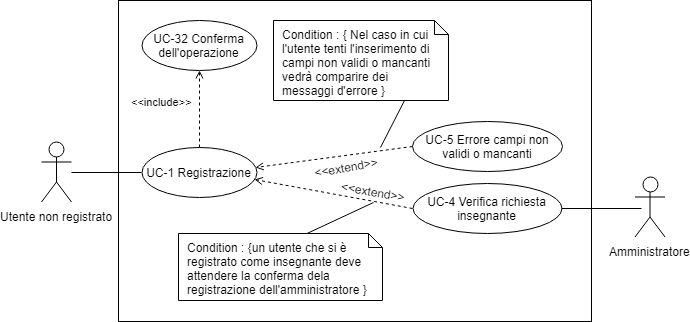
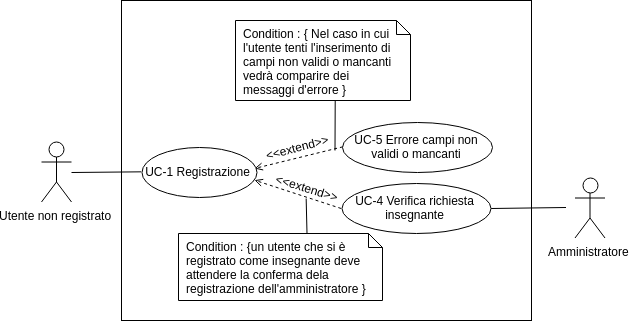
Analisi dei requisiti

Changed region(s): [[0.0, 0.0, 1.0, 1.0], [0.0603, 0.4348, 0.1206, 0.6211], [0.2714, 0.2174, 0.3016, 0.2484]]

diff --git a/docs/Analisi_dei_requisiti/casi1.tex b/docs/Analisi_dei_requisiti/casi1.tex
@@ -42,7 +42,8 @@ Ad ogni caso d'uso saranno associate le seguenti informazioni:
 		\item \textbf{Estensioni: }
 		\begin{itemize}
 			\item 5.a Nel caso in cui l'utente tenti l'inserimento di campi non validi vedrà comparire dei messaggi d'errore (UC-5).
-			\item 5.b un utente che si è registrato come insegnante deve attendere la conferma dela registrazione dell'amministratore (UC-4).
+			\item 5.b Un utente che si è registrato come insegnante deve attendere la conferma dela registrazione dell'amministratore (UC-4).
+			\item 5.c Un utente che invia la domanda di registrazione deve confermare o annullare l'operazione (UC-32).
 		\end{itemize}
 	\end{itemize}
 \subsubsection{UC-2 Autenticazione}
@@ -58,6 +59,7 @@ Ad ogni caso d'uso saranno associate le seguenti informazioni:
 				\item Estensioni:
 				\begin{itemize}
 					\item 2.a Nel caso in cui l'utente tenti l'inserimento di campi non validi vedrà comparire messaggi d'errore (UC-5).
+					\item 2.b Un utente che invia la domanda di identificazione deve confermare o annullare l'operazione (UC-32)
 				\end{itemize}
 		\end{itemize}
 		
@@ -79,7 +81,8 @@ Ad ogni caso d'uso saranno associate le seguenti informazioni:
 				\end{enumerate}
 				\item Estensioni:
 				\begin{itemize}
-					\item 2.a nel caso in cui l'utente tenti l'inserimento di campi non validi vedrà comparire messaggi d'errore (UC-5).
+					\item 2.a Nel caso in cui l'utente tenti l'inserimento di campi non validi vedrà comparire messaggi d'errore (UC-5).
+					\item 2.b Un utente che invia la domanda di modifica deve confermare o annullare l'operazione (UC-32).
 				\end{itemize}
 		\end{itemize}
 		
@@ -93,6 +96,10 @@ Ad ogni caso d'uso saranno associate le seguenti informazioni:
 					\item l'amministratore visualizza la lista degli utenti che richiedono il ruolo di insegnante;
 					\item l'amministratore acceta o rifiuta l'utente selezionato.
 				\end{enumerate}
+			\item Estensioni:
+			\begin{itemize}
+				\item 2.a L'amministratore che verifica la richiesta di insegnante deve confermare o annullare l'operazione (UC-32).
+			\end{itemize}
 		\end{itemize}
 
 \subsubsection{UC-5 Errore campi non validi o mancanti}
@@ -159,6 +166,10 @@ Ad ogni caso d'uso saranno associate le seguenti informazioni:
 		\item l'amministratore indica l'utente da eliminare;
 		\item l'amministratore conferma l'eliminazione dell'utente selezionato.
 	\end{enumerate}
+\item Estensioni:
+\begin{itemize}
+	\item 2.a L'amministratore deve confermare o annullare l'operazione di eliminazione utente (UC-32).
+\end{itemize}
 \end{itemize}
 
 	
@@ -179,6 +190,10 @@ Ad ogni caso d'uso saranno associate le seguenti informazioni:
 		\item L'insegnante modifica i campi che ritiene errati.
 		\item L'insegnante conferma la modifica.
 		\end{enumerate}
+	\item Estensioni:
+	\begin{itemize}
+	\item 3.a L'insegnante che modifica la soluzione di un esercizio deve confermare o annullare l'operazione (UC-32)
+	\end{itemize}
 \end{itemize}
 
 \subsubsection{UC-10 Visualizzazione esercizi inseriti}
@@ -200,8 +215,12 @@ Ad ogni caso d'uso saranno associate le seguenti informazioni:
 		\item \textbf{Scenario principale: }
 		\begin{enumerate}
 		\item L'utente sceglie una soluziona da eliminare.
-		\item La soluzione scelta viene eliminata.
+		\item L'insegnante conferma l'eliminazione
 		\end{enumerate}
+	\item Estensioni:
+	\begin{itemize}
+	\item 2.a L'insegnante che elimina la soluzione di un esercizio puo' confermare o annullare l'operazione (UC-32).
+	\end{itemize}
 	\end{itemize}
 
 \subsubsection{UC-12 Inserimento esercizio}
@@ -223,8 +242,9 @@ Ad ogni caso d'uso saranno associate le seguenti informazioni:
 		\item L'insegnante inserisce gli argomenti UC-12.2;
 		\item L'insegnante conferma l'inserimento.
 		\end{enumerate}
-		\item \textbf{Estensioni: }
+		\item Estensioni: 
 		\begin{itemize}
+			\item 5.a Un insegnante che inserisce un esercizio deve confermare o annullare l'operazione (UC-32).
 		\item 6.a Nel caso in cui i campi compilati presentino errori verrà mostrato un messaggio d'errore (UC-5).
 		\end{itemize}
 	\end{itemize}
@@ -241,14 +261,18 @@ Ad ogni caso d'uso saranno associate le seguenti informazioni:
 		\item L'insegnante seleziona lo stato della soluzione inserita, pubblica o privata;
 		\item L'insegnante conferma la soluzione.
 		\end{enumerate}	
+	\item Estensioni:
+	\begin{itemize}
+	\item 4.a Un insegnante che inserisce una soluzione deve confermare o annullare l'operazione (UC-32).
+	\end{itemize}
 \end{itemize}
 
 \subsubsection{UC-12.2 Inserimento argomenti}
 \begin{itemize}
 \item \textbf{Attori: }Insegnante
 
-\item \textbf{Precondizione: L'insegnante sta inserendo un esercizio, gli viene richiesta la compilazione di una lista di argomenti presenti nell'esercizio}
-\item \textbf{Postcondizione: L'insegnante ha selazionato gli argomenti trattati nell'esercizio.}
+\item \textbf{Precondizione:} L'insegnante sta inserendo un esercizio, gli viene richiesta la compilazione di una lista di argomenti presenti nell'esercizio
+\item \textbf{Postcondizione:} L'insegnante ha selazionato gli argomenti trattati nell'esercizio.
 \item \textbf{Scenario principale: }
 		\begin{enumerate}
 		\item L'insegnante sta inserendo un esercizio. 
@@ -274,6 +298,10 @@ Ad ogni caso d'uso saranno associate le seguenti informazioni:
 				\item l'allievo conferma i dati inseriti.
 				\item l'allievo visualizza la valutazione (UC-13.3).
 			\end{enumerate}
+		\item Estensioni:
+		\begin{itemize}
+			\item 3.a Un allievo che invia i dati per lo svolgimento dell'esercizio deve confermare o annullare l'operazione (UC-32).
+		\end{itemize}
 	\end{itemize}
 			
 	\subsubsection{UC-13.1 Selezione esercizio}
@@ -292,6 +320,10 @@ Ad ogni caso d'uso saranno associate le seguenti informazioni:
 					\item l'allievo seleziona il correttore dell'esercizio(insegnante o algoritmo automatico).
 					\item l'allievo conferma la selezione.
 				\end{enumerate}
+			\item Estensioni:
+			\begin{itemize}
+		\item 3.a Un allievo che indica l'esercizio e il correttore  deve confermare o annullare l'operazione (UC-32).
+			\end{itemize}
 			\end{itemize}
 
 	\subsubsection{UC-13.2 Compilazione dei campi}
@@ -306,6 +338,7 @@ Ad ogni caso d'uso saranno associate le seguenti informazioni:
 				\end{enumerate}
 			\item Estensioni: 
 				\begin{itemize}
+					\item 2.a Un allievo dopo la compilazione dei campi deve confermare o annullare l'operazione (UC-32).
 					\item UC-5 Nel caso in cui l'utente tenti l'inserimento di campi non validi vedrà comparire messaggi d'errore.
 				\end{itemize}
 		\end{itemize}

diff --git a/docs/Analisi_dei_requisiti/casix.tex b/docs/Analisi_dei_requisiti/casix.tex
@@ -9,8 +9,12 @@
 		\item L'insegnante selezione l'opzione "aggiungi classe"
 		\item L'insegnante assegna un nome alla classe
 		\item L'insegnante assegna una descrizione alla classe
-		\item L'insegnante conferma la creazione (UC-32)
+		\item L'insegnante conferma la creazione
 	\end{enumerate}
+\item Estensioni:
+\begin{itemize}
+\item 4.a L'insegnante deve confermare o annullare l'operazione di creazione classe (UC-32).
+\end{itemize}
 
 \end{itemize}
 
@@ -22,8 +26,12 @@
 	\item Scenario principale:
 	\begin{enumerate}
 		\item l'insegnante clicca sul pulsante di eliminazione della classe.
-		\item l'insegnante conferma l'eliminazione (UC-32)
+		\item l'insegnante conferma l'eliminazione
 	\end{enumerate}
+\item Estensioni:
+\begin{itemize}
+	\item 2.a L'insegnante deve confermare o annullare l'operazione di eliminare una classe (UC-32).
+\end{itemize}
 \end{itemize}
 
 \subsubsection{UC-26 Inserimento Alunni}
@@ -35,8 +43,12 @@
 	\begin{enumerate}
 		\item l'insegnante seleziona l'opzione di aggiunta
 		\item l'insegnante indica gli studenti da aggiungere
-		\item l'insegnante conferma l'inserimento (UC-32)
+		\item l'insegnante conferma l'inserimento
 	\end{enumerate}
+\item Estensioni:
+\begin{itemize}
+	\item 3.a L'insegnante deve confermare o annullare l'operazione di inserimento alunni (UC-32).
+\end{itemize}
 \end{itemize}
 
 \subsubsection{UC-27 Assegnazione Esercizi}
@@ -48,8 +60,12 @@
 	\begin{enumerate}
 		\item l'insegnante seleziona la classe
 		\item l'insegnante assegna esercizi alla classe
-		\item l'insegnante conferma l'inserimento (UC-32)
+		\item l'insegnante conferma l'inserimento
 	\end{enumerate}
+\item Estensioni:
+\begin{itemize}
+	\item 3.a L'insegnante deve confermare o annullare l'operazione di assegnazione esercizi (UC-32).
+\end{itemize}
 \end{itemize}
 
 
@@ -73,8 +89,12 @@
 	\item Scenario principale:
 	\begin{enumerate}
 		\item L'insegnante seleziona l'allievo da rimuovere dalla classe.
-		\item L'insegnante conferma l'eliminazione. (UC-32)
-	\end{enumerate}		
+		\item L'insegnante conferma l'eliminazione.
+	\end{enumerate}	
+\item Estensioni:
+\begin{itemize}
+	\item 2.a L'insegnante deve confermare o annullare l'operazione di eliminare un alunno dalla classe (UC-32).
+\end{itemize}	
 \end{itemize}
 
 \subsubsection{UC-30 Visualizza lista degli alunni iscritti nella classe}		
@@ -108,15 +128,7 @@
 	\item Scenario principale:
 	\begin{enumerate}
 		\item L'utente visualizza un messaggio per la conferma dell'operazione
-		\item L'utente seleziona l'opzione "Conferma" per completare l'operazione.
+		\item L'utente seleziona l'opzione "Annulla" per annullare l'operazione.
+		\item L'utente seleziona l'opzione "Conferma" per accettare l'operazione.
 	\end{enumerate}		
-	\item Estensioni
-		\begin{itemize}
-			\item 2.a Se l'utente seleziona "Annulla", l'operazione non viene completata.
-		\end{itemize}
 \end{itemize}
-
-\begin{figure}[h]
-	\centering
-	\includegraphics[scale=0.7]{images/UC-32.png}
-\end{figure}

diff --git a/docs/Analisi_dei_requisiti/main.tex b/docs/Analisi_dei_requisiti/main.tex
@@ -43,20 +43,21 @@
 	
 	\newpage
 	\section*{\centering Registro delle modifiche}
-	\begin{tabularx}{\textwidth}{ c | c | c | c | X }
+	\begin{tabularx}{\textwidth}{ | c | c | c | c | X |}
 		\rowcolor{LightBlue}
 		\color{white}\bfseries Versione & \color{white}\bfseries Data & \color{white}\bfseries Autore & \color{white}\bfseries Ruolo & \multicolumn{1}{c}{\color{white}\bfseries Descrizione}\\[0.25cm]
-		0.0.11 & 2019-01-09 & Eleonora Peagno & Analista & Individuazione e stesura dei requisiti; tracciamento. \\
-		0.0.10 & 2019-01-08 & Enrico Marcato & Analista & Aggiunta delle immagini per i casi d'uso dell'allievo\\
-		0.0.9 & 2019-01-08 & Giovanni Peron & Analista & Aggiunta delle immagini per i casi d'uso dell'insegnante\\
-		0.0.8 & 2019-01-08 & Benedetto Cosentino & Analista & Aggiunta delle immagini per i casi d'uso dello sviluppatore\\
-		0.0.7 & 2019-01-04 & Eleonora Peagno & Analista & Stesura introduzione e descrizione generale\\
-		0.0.6 & 2019-01-02 & Enrico Marcato & Analista & Stesura dei casi d'uso dell'attore allievo\\
-		0.0.5 & 2018-12-28 & Eleonora Peagno & Analista & Stesura UC-3, UC-4 e UC-5 dell'attore insegnante\\
-		0.0.4 & 2018-12-28 & Giovanni Peron & Analista & Avanzamento casi d'uso UC-1 UC-2 dell'attore insegnante\\
-		0.0.3 & 2018-12-28 & Benedetto Cosentino & Analista & Stesura dei casi d'uso dell'attore sviluppatore\\
-		0.0.2 & 2018-12-26 & Giovanni Peron & Analista & Stesura UC-1 e UC-2 cap3\\
-		0.0.1 & 2018-12-24 & Giovanni Peron & Analista & Creazione documento\\
+		0.0.12 & 2019-01-10 & Giovanni Bergo & Analista & Stesura casi d'uso UC-32 \\ \hline
+		0.0.11 & 2019-01-09 & Eleonora Peagno & Analista & Individuazione e stesura dei requisiti; tracciamento. \\ \hline
+		0.0.10 & 2019-01-08 & Enrico Marcato & Analista & Aggiunta delle immagini per i casi d'uso dell'allievo\\ \hline
+		0.0.9 & 2019-01-08 & Giovanni Peron & Analista & Aggiunta delle immagini per i casi d'uso dell'insegnante\\ \hline
+		0.0.8 & 2019-01-08 & Benedetto Cosentino & Analista & Aggiunta delle immagini per i casi d'uso dello sviluppatore\\ \hline
+		0.0.7 & 2019-01-04 & Eleonora Peagno & Analista & Stesura introduzione e descrizione generale\\ \hline
+		0.0.6 & 2019-01-02 & Enrico Marcato & Analista & Stesura dei casi d'uso dell'attore allievo\\ \hline
+		0.0.5 & 2018-12-28 & Eleonora Peagno & Analista & Stesura UC-3, UC-4 e UC-5 dell'attore insegnante\\ \hline
+		0.0.4 & 2018-12-28 & Giovanni Peron & Analista & Avanzamento casi d'uso UC-1 UC-2 dell'attore insegnante\\ \hline
+		0.0.3 & 2018-12-28 & Benedetto Cosentino & Analista & Stesura dei casi d'uso dell'attore sviluppatore\\ \hline
+		0.0.2 & 2018-12-26 & Giovanni Peron & Analista & Stesura UC-1 e UC-2 cap3\\ \hline
+		0.0.1 & 2018-12-24 & Giovanni Peron & Analista & Creazione documento\\ \hline
 	\end{tabularx}
 	\newpage
 	\tableofcontents

diff --git a/docs/Analisi_dei_requisiti/casi3.tex b/docs/Analisi_dei_requisiti/casi3.tex
@@ -132,7 +132,7 @@
 				\end{itemize}
 		\end{itemize} 
 
-	% Cosa si intende esattamente con modello?
+
 		
 	\subsubsection{UC-20 Visualizzazione di un modello}
 		\begin{itemize}
@@ -197,7 +197,11 @@
 			\item Postcondizione: l'amministratore ha eliminato l'esercizio desiderato.
 			\item Scenario principale:
 				\begin{enumerate}
-					\item l'amministratore indica l'esercizio da eliminare;
-					\item l'amministratore conferma l'eliminazione dell'esercizio selezionato.
+					\item L'amministratore indica l'esercizio da eliminare;
+					\item L'amministratore conferma l'eliminazione dell'esercizio selezionato.
 				\end{enumerate}
+			\item Estensioni:
+			\begin{itemize}
+			\item 2.a L'amministratore conferma o annulla l'operazione (UC-32).
+			\end{itemize}
 		\end{itemize}

diff --git a/docs/Analisi_dei_requisiti/frontpage/frontpage.tex b/docs/Analisi_dei_requisiti/frontpage/frontpage.tex
@@ -15,7 +15,7 @@
 		\rowcolor{LightBlue}		
 		\multicolumn{2}{c}{\color{white}{Informazioni sul documento}}\\
 		Versione & 1.0.0 \\
-		Redazione & Benedetto Cosentino, Enrico Marcato,\\& Eleonora Peagno, Giovanni Peron\\
+		Redazione & Benedetto Cosentino, Enrico Marcato,\\& Eleonora Peagno, Giovanni Peron, Giovanni Bergo\\
  		Verifica & \\
  		Responsabile & Benedetto Cosentino\\
  		Uso & Esterno\\
